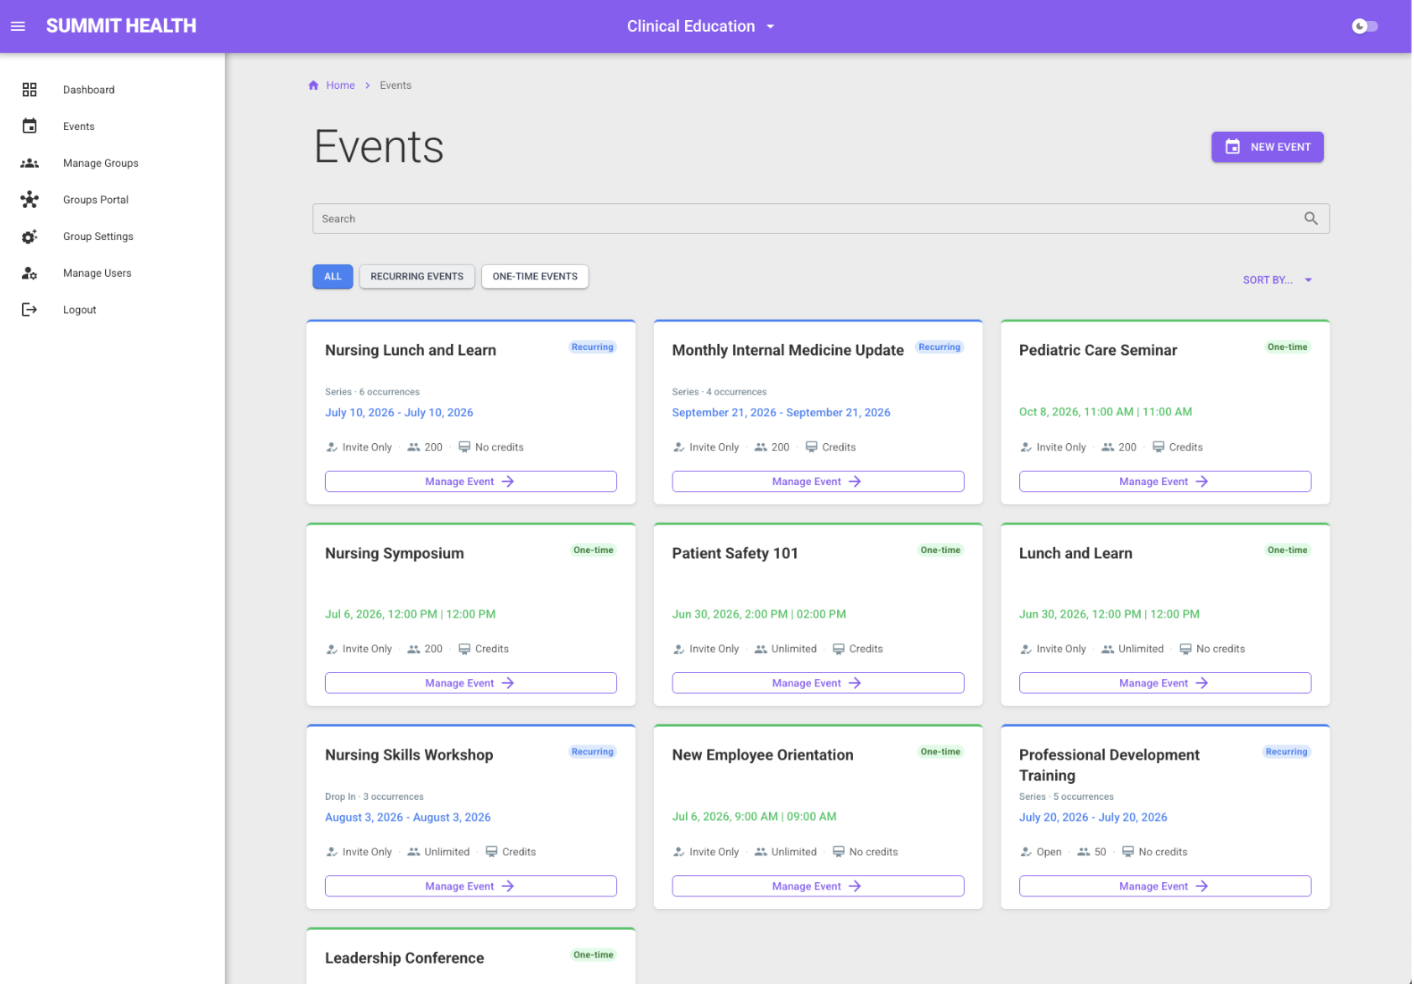
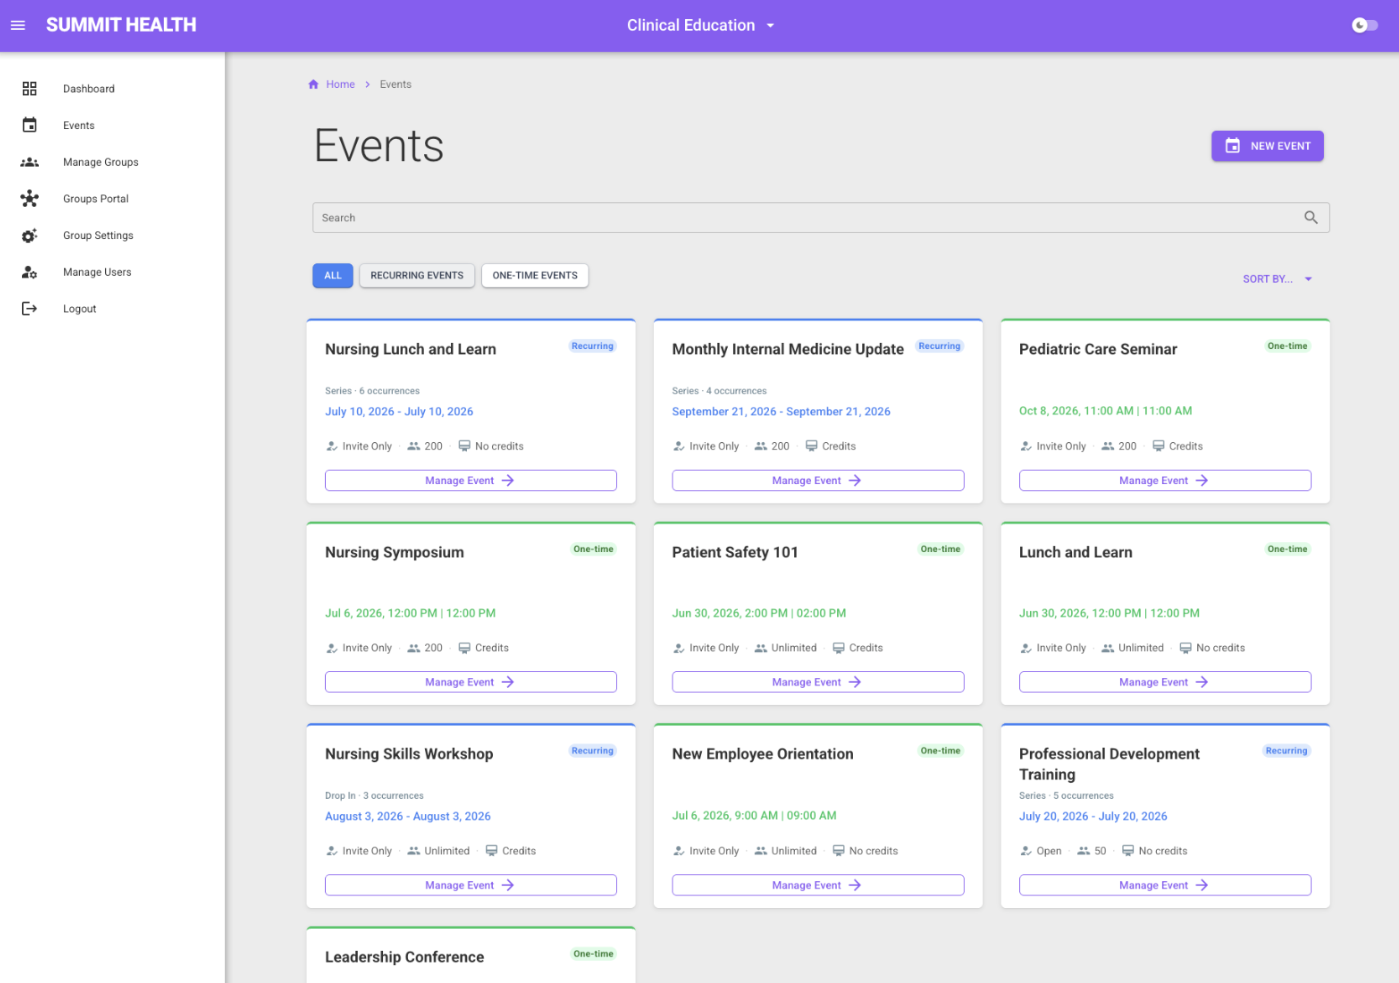
Add attendee registration experience to event platform case study

diff --git a/src/pages/SelfServiceEventCaseStudy.vue b/src/pages/SelfServiceEventCaseStudy.vue
@@ -141,22 +141,21 @@
   </template>
 </FeatureBlock>
 
-  <FeatureBlock
-  title="Attendee Management"
-  description="A centralized workspace supports attendee search, filtering, invitation tracking, registration management, imports, exports, reporting, and setup progress throughout the event lifecycle."
-  image-alt="Attendee management workspace showing attendee records, registration status, search and filtering tools, import options, and reporting."
-  image-caption="Administrators can manage registrations, invitations, attendee records, and reporting from one centralized workspace."
-  :highlights="[
-    'Invitation and registration tracking',
-    'Search and filter attendees',
-    'Excel import and export',
-    'Reporting and setup progress',
-  ]"
->
-  <template #media>
-    <ScreenshotGallery :images="attendeeManagementImages" />
-  </template>
-</FeatureBlock>
+ <FeatureBlock
+      title="Email Management"
+      description="Administrators can create, customize, preview, and manage reusable email templates for invitations, confirmations, reminders, and other event communications."
+      :image-src="emailManagement"
+      image-alt="Email management workspace showing reusable email templates, scheduling options, and communication tools."
+      image-caption="Reusable email templates simplify communication while keeping messaging consistent across events."
+      :highlights="[
+        'Reusable email templates',
+        'Invitation and reminder workflows',
+        'Template preview and editing',
+        'Consistent communication across events',
+      ]"
+    />
+
+ 
 <FeatureBlock
   title="Attendee Import Wizard"
   description="Administrators can upload attendee spreadsheets, map columns to application fields, configure registration behavior, and review records before completing the import."
@@ -172,19 +171,36 @@
   </template>
 </FeatureBlock>
 
-    <FeatureBlock
-      title="Email Management"
-      description="Administrators can create, customize, preview, and manage reusable email templates for invitations, confirmations, reminders, and other event communications."
-      :image-src="emailManagement"
-      image-alt="Email management workspace showing reusable email templates, scheduling options, and communication tools."
-      image-caption="Reusable email templates simplify communication while keeping messaging consistent across events."
-      :highlights="[
-        'Reusable email templates',
-        'Invitation and reminder workflows',
-        'Template preview and editing',
-        'Consistent communication across events',
-      ]"
-    />
+<FeatureBlock
+  title="Attendee Registration Experience"
+  description="Each invitation includes a unique, attendee-specific registration link generated from the email template. The attendee registration experience pre-filled participant information, supported recurring event attendance, and simplified registration with quick actions and reusable responses."
+  :image-src="personalizedRegistration"
+  image-alt="Personalized attendee registration form showing pre-filled attendee information, recurring event dates, attendance options, lunch request fields, copy from previous actions, and submit button."
+  image-caption="Attendees can register through a personalized link, update their information, RSVP for individual recurring dates, and reuse responses across occurrences."
+  :highlights="[
+    'Secure personalized registration links',
+    'Pre-filled attendee information',
+    'RSVP for individual event dates',
+    'Copy previous responses across occurrences',
+  ]"
+/>
+
+   <FeatureBlock
+  title="Attendee Management"
+  description="A centralized workspace supports attendee search, filtering, invitation tracking, registration management, imports, exports, reporting, and setup progress throughout the event lifecycle."
+  image-alt="Attendee management workspace showing attendee records, registration status, search and filtering tools, import options, and reporting."
+  image-caption="Administrators can manage registrations, invitations, attendee records, and reporting from one centralized workspace."
+  :highlights="[
+    'Invitation and registration tracking',
+    'Search and filter attendees',
+    'Excel import and export',
+    'Reporting and setup progress',
+  ]"
+>
+  <template #media>
+    <ScreenshotGallery :images="attendeeManagementImages" />
+  </template>
+</FeatureBlock>
 
     <FeatureBlock
       title="Group Dashboard"
@@ -339,6 +355,7 @@ import attendeeImportMappingImage from '../assets/images/projects/event-platform
 import attendeeImportRegistrationImage from '../assets/images/projects/event-platform/import-registration.png'
 import attendeeImportReviewImage from '../assets/images/projects/event-platform/import-review.png'
 
+import personalizedRegistration from '../assets/images/projects/event-platform/personalized-registration.png'
 
 const technologies = ['Laravel', 'Vue 3', 'Quasar', 'SQL Server', 'REST APIs']
 
